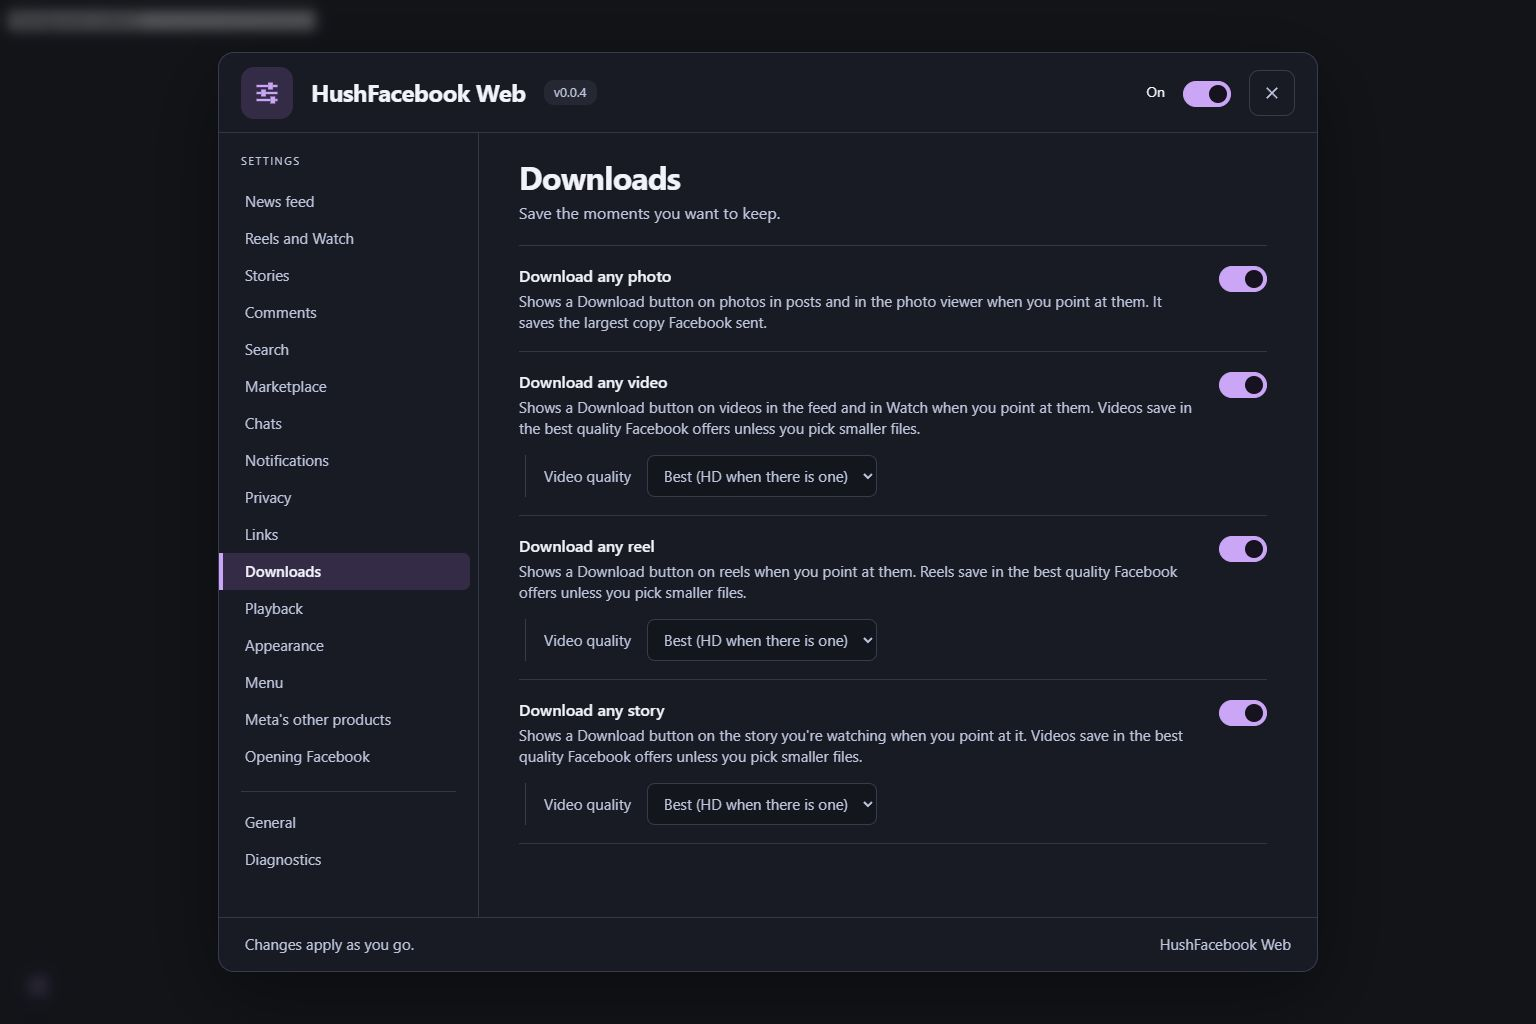
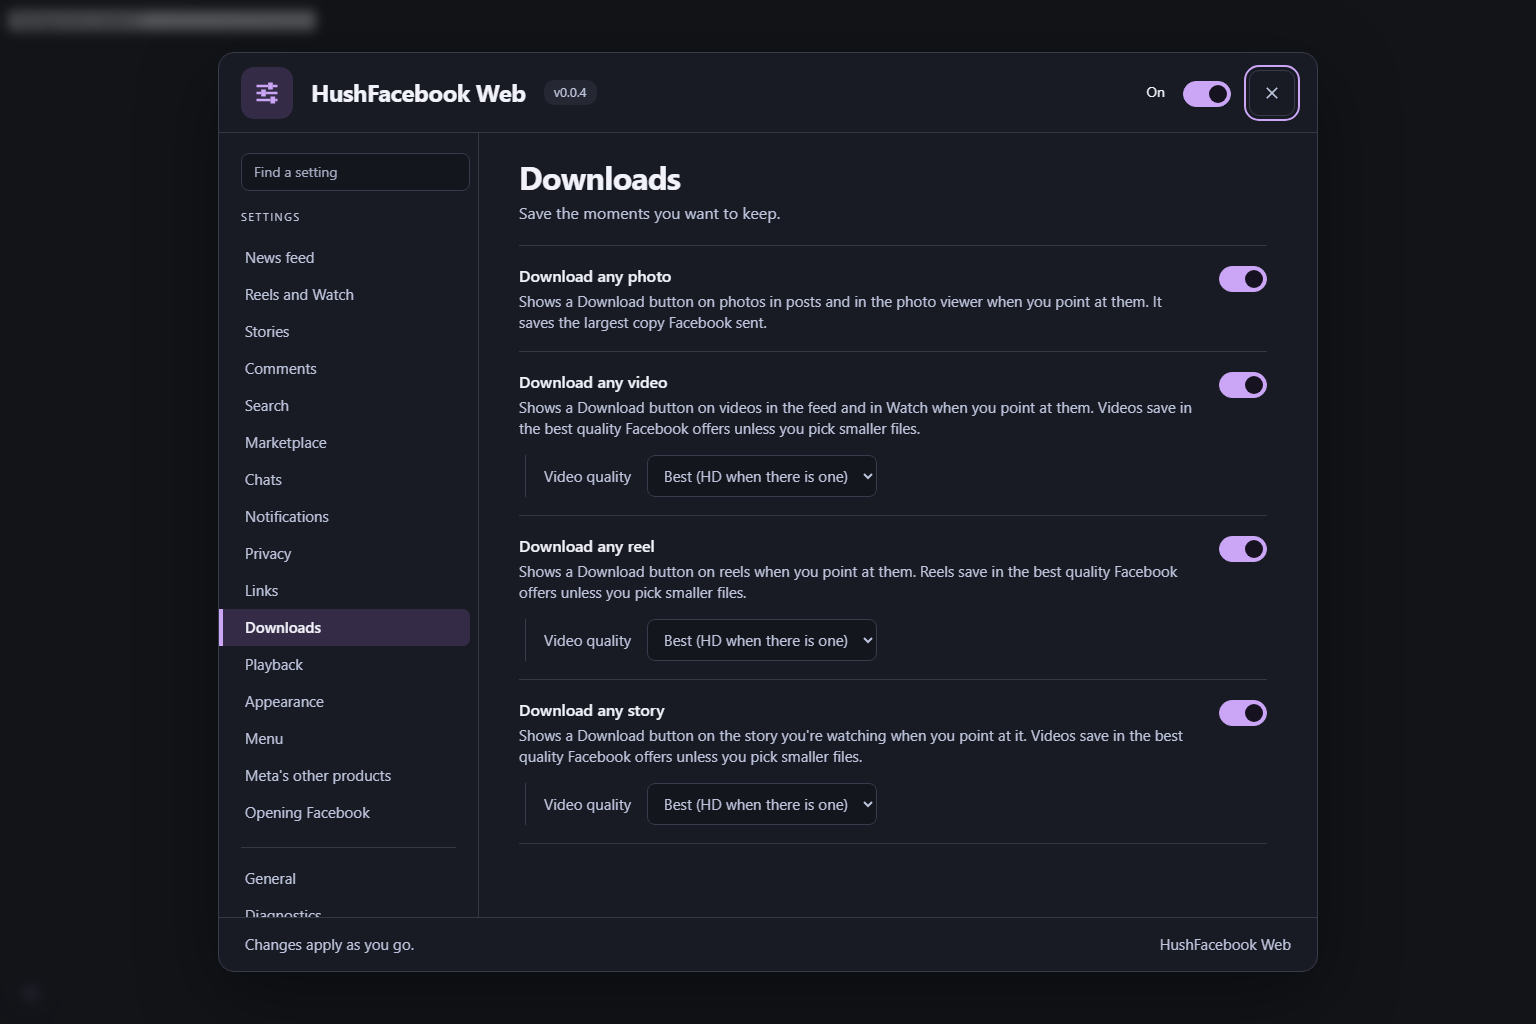
feat(ui): find a setting by its words
A search box above the sections lists every feature whose title, description, section, option labels or choice names hold all the words typed, with working switches and a link that opens the feature's section at its switch. Picking a section clears the search. Screenshots retaken from the review fixture.

Changed region(s): [[0.125, 0.1562, 0.3125, 0.875]]

diff --git a/src/ui/panel.js b/src/ui/panel.js
@@ -7,6 +7,7 @@ import { MAX_BACKUP_BYTES } from '../core/settings.js';
 import { SECTIONS } from '../features/sections.js';
 import { h, icon } from './h.js';
 import { SLIDERS_ICON } from './icons.js';
+import { findFeatures } from './search.js';
 import { panelCss } from './styles.js';
 
 const CLOSE_ICON = ['M6.4 5 12 10.6 17.6 5 19 6.4 13.4 12 19 17.6 17.6 19 12 13.4 6.4 19 5 17.6 10.6 12 5 6.4z'];
@@ -46,6 +47,7 @@ export function mountPanel({ settings, features, log, hider, diagnostics, action
     { id: 'diagnostics', title: 'Diagnostics' },
   ];
   let current = sections[0].id;
+  let query = '';
   let opener = null;
   const drafts = new Map();
   const fieldErrors = new Map();
@@ -60,6 +62,12 @@ export function mountPanel({ settings, features, log, hider, diagnostics, action
   );
   const nav = h('nav', { 'aria-label': 'Settings sections' });
   const main = h('main', { 'aria-labelledby': 'hfw-section-title' });
+  // One element for the life of the panel, so typing keeps its place across redraws.
+  const search = h('input', {
+    class: 'search', type: 'search', placeholder: 'Find a setting', 'aria-label': 'Find a setting',
+    autocomplete: 'off', spellcheck: 'false', dataset: { key: 'search' },
+    oninput: (event) => { query = event.target.value; main.scrollTop = 0; render(); },
+  });
   const pauseState = h('span', { class: 'power-state' });
   // Checked means running, so the switch agrees with the "On" chip beside it.
   const power = h('input', {
@@ -218,6 +226,32 @@ export function mountPanel({ settings, features, log, hider, diagnostics, action
     return features.filter((feature) => feature.section === section.id).map(featureCard);
   }
 
+  function clearSearch() {
+    query = '';
+    search.value = '';
+  }
+
+  // A search result's section link: opens the section with that feature's switch focused.
+  function showFeature(feature) {
+    clearSearch();
+    current = feature.section;
+    main.scrollTop = 0;
+    render();
+    const control = main.querySelector(`[data-key="${CSS.escape(feature.id)}"]`);
+    control?.scrollIntoView?.({ block: 'center' });
+    control?.focus({ preventScroll: true });
+  }
+
+  function resultsView(found) {
+    if (!found.length) return [h('p', { class: 'empty', text: `No setting matches "${query.trim()}". Try a shorter word, or pick a section.` })];
+    return found.map((feature) => {
+      const section = sections.find((entry) => entry.id === feature.section);
+      return h('div', { class: 'result' },
+        h('button', { class: 'result-section', type: 'button', text: `In ${section.title}`, dataset: { key: `show:${feature.id}` }, onclick: () => showFeature(feature) }),
+        featureCard(feature));
+    });
+  }
+
   function generalView() {
     return [
       h('div', { class: 'card' },
@@ -283,20 +317,30 @@ export function mountPanel({ settings, features, log, hider, diagnostics, action
     const selection = typeof focused?.selectionStart === 'number' ? [focused.selectionStart, focused.selectionEnd] : null;
     const scrollTop = main.scrollTop;
     const navScroll = [nav.scrollLeft, nav.scrollTop];
-    nav.replaceChildren(h('div', { class: 'nav-label', text: 'Settings' }), ...sections.flatMap((section) => [
+    const searching = query.trim() !== '';
+    nav.replaceChildren(search, h('div', { class: 'nav-label', text: 'Settings' }), ...sections.flatMap((section) => [
       section.divider ? h('hr') : null,
       h('button', {
         type: 'button', text: section.title, dataset: { key: `nav:${section.id}` },
-        'aria-current': section.id === current ? 'page' : null,
-        onclick: () => { current = section.id; main.scrollTop = 0; render(); },
+        'aria-current': !searching && section.id === current ? 'page' : null,
+        onclick: () => { clearSearch(); current = section.id; main.scrollTop = 0; render(); },
       }),
     ]).filter(Boolean));
-    const section = sections.find((entry) => entry.id === current);
-    main.replaceChildren(
-      h('div', { class: 'page-heading' },
-        h('h3', { id: 'hfw-section-title', text: section.title }),
-        h('p', { text: SECTION_DESCRIPTIONS[current] ?? '' })),
-      ...(current === 'general' ? generalView() : current === 'diagnostics' ? diagnosticsView() : sectionView(section)));
+    if (searching) {
+      const found = findFeatures(features, sections, query);
+      main.replaceChildren(
+        h('div', { class: 'page-heading' },
+          h('h3', { id: 'hfw-section-title', text: 'Search' }),
+          h('p', { text: found.length === 1 ? '1 setting matches.' : `${found.length} settings match.` })),
+        ...resultsView(found));
+    } else {
+      const section = sections.find((entry) => entry.id === current);
+      main.replaceChildren(
+        h('div', { class: 'page-heading' },
+          h('h3', { id: 'hfw-section-title', text: section.title }),
+          h('p', { text: SECTION_DESCRIPTIONS[current] ?? '' })),
+        ...(current === 'general' ? generalView() : current === 'diagnostics' ? diagnosticsView() : sectionView(section)));
+    }
     main.scrollTop = scrollTop;
     nav.scrollLeft = navScroll[0];
     nav.scrollTop = navScroll[1];
@@ -397,7 +441,8 @@ export function mountPanel({ settings, features, log, hider, diagnostics, action
 
   function open(sectionId) {
     if (sectionId && sections.some((section) => section.id === sectionId)) {
-      if (sectionId !== current) main.scrollTop = 0;
+      if (sectionId !== current || query) main.scrollTop = 0;
+      clearSearch();
       current = sectionId;
     }
     if (!dialog.open) opener = shadow.activeElement ?? document.activeElement;

diff --git a/tests/panel.test.js b/tests/panel.test.js
@@ -322,3 +322,34 @@ test('a preference refresh preserves an unfinished draft, caret and scroll posit
   assert.equal(shadow.querySelector('main').scrollTop, 90);
   assert.equal(settings.get('demo.words'), '');
 });
+
+test('search finds settings by their words, opens the section at the switch, and clears back to the sections', () => {
+  const features = [
+    { id: 'quiet', section: 'feed', android: 'Quiet', title: 'Hide sponsored posts', description: 'Ads leave the feed.', default: false },
+    { id: 'speedy', section: 'playback', android: 'Speedy', title: 'Keep your video speed', description: 'The speed you pick stays.', default: false,
+      options: [{ key: 'step', type: 'select', label: 'Speed step', default: 1, choices: [{ value: 1, label: 'Quarter steps' }] }] },
+  ];
+  const { shadow, panel, win } = setup({ features });
+  panel.open('feed');
+  const search = shadow.querySelector('[data-key="search"]');
+  const type = (text) => {
+    search.value = text;
+    search.dispatchEvent(new win.Event('input', { bubbles: true }));
+  };
+  type('quarter');
+  assert.equal(shadow.querySelector('#hfw-section-title').textContent, 'Search');
+  assert.deepEqual([...shadow.querySelectorAll('.result .title')].map((node) => node.textContent), ['Keep your video speed'], 'choice names count');
+  assert.equal(shadow.querySelector('nav [aria-current="page"]'), null, 'no section is current while searching');
+  assert.ok(shadow.querySelector('.result [data-key="speedy"]'), 'the switch works from the results');
+  type('zebra');
+  assert.match(shadow.querySelector('main .empty').textContent, /No setting matches "zebra"/);
+  type('SPEED keep');
+  shadow.querySelector('[data-key="show:speedy"]').click();
+  assert.equal(shadow.querySelector('#hfw-section-title').textContent, 'Playback');
+  assert.equal(shadow.activeElement?.dataset.key, 'speedy', "the feature's switch has focus");
+  assert.equal(search.value, '');
+  type('sponsored');
+  shadow.querySelector('[data-key="nav:general"]').click();
+  assert.equal(shadow.querySelector('#hfw-section-title').textContent, 'General', 'a section button clears the search');
+  assert.equal(search.value, '');
+});

diff --git a/src/ui/styles.js b/src/ui/styles.js
@@ -65,6 +65,18 @@ nav button[aria-current="page"] { background: var(--selected); color: var(--text
 nav button[aria-current="page"]::before { content: ""; position: absolute; inset: 0 auto 0 0; width: 4px; background: var(--accent); }
 nav button:focus-visible { outline-offset: -3px; }
 nav hr { border: 0; border-top: 1px solid var(--border); margin: 16px 14px 12px 22px; }
+.search {
+  display: block; box-sizing: border-box; width: calc(100% - 22px); margin: 0 0 18px 22px; padding: 8px 12px;
+  background: var(--mantle); border: 1px solid var(--surface1); border-radius: 8px; font-size: 14px;
+}
+.search::placeholder { color: var(--subtext); opacity: 0.85; }
+.result { border-top: 1px solid var(--border); }
+.result > .card { border-top: 0; padding-top: 6px; }
+.result-section {
+  display: block; margin: 16px 0 0; padding: 0; border: 0; background: none; cursor: pointer;
+  color: var(--accent); font-size: 12px; font-weight: 600; letter-spacing: 0.6px; text-transform: uppercase;
+}
+.result-section:hover { text-decoration: underline; }
 main { min-width: 0; overflow: auto; overscroll-behavior: contain; padding: 24px 40px 32px; scrollbar-gutter: stable; overflow-wrap: anywhere; }
 .page-heading { margin-bottom: 20px; }
 .page-heading h3 { margin: 0; font-size: 32px; line-height: 40px; font-weight: 700; letter-spacing: -0.7px; }
@@ -147,6 +159,7 @@ nav, main, .log, textarea { scrollbar-width: thin; scrollbar-color: var(--surfac
   .body { grid-template-columns: minmax(0, 1fr); grid-template-rows: auto minmax(0, 1fr); }
   nav { display: flex; align-items: center; gap: 4px; padding: 8px; overflow-x: auto; border-right: 0; border-bottom: 1px solid var(--border); }
   .nav-label { display: none; }
+  .search { flex: none; width: 150px; margin: 0 4px 0 0; padding: 7px 10px; font-size: 13px; }
   nav button { flex: none; white-space: nowrap; width: auto; min-height: 38px; padding: 7px 12px; border-radius: 7px; font-size: 13px; }
   nav button[aria-current="page"]::before { inset: auto 10px 0; width: auto; height: 2px; }
   nav hr { display: none; }

diff --git a/tests/search.test.js b/tests/search.test.js
@@ -1,0 +1,23 @@
+// Finding settings by their words, over the real feature list.
+
+import assert from 'node:assert/strict';
+import { test } from 'node:test';
+import { features } from '../src/features/index.js';
+import { SECTIONS } from '../src/features/sections.js';
+import { findFeatures, searchText } from '../src/ui/search.js';
+
+const ids = (query) => findFeatures(features, SECTIONS, query).map((feature) => feature.id);
+
+test('every word has to appear, in any case and order', () => {
+  assert.ok(ids('volume').includes('keepVolume'));
+  assert.ok(ids('REMEMBER volume').includes('keepVolume'));
+  assert.deepEqual(ids('volume zebra'), []);
+  assert.deepEqual(ids('   '), []);
+});
+
+test('section names, option labels and choice names are searched too', () => {
+  assert.ok(ids('whatsapp').includes('shareSheet'), 'an option label');
+  const playback = ids('playback');
+  assert.ok(playback.includes('keepSpeed') && playback.includes('keepVolume'), 'the section name');
+  assert.ok(searchText({ title: 'Café', description: '', section: 'feed' }, SECTIONS).includes('cafe'), 'accents fold');
+});

diff --git a/src/ui/search.js b/src/ui/search.js
@@ -1,0 +1,20 @@
+// Finding a setting by its words: a feature matches when every word typed appears somewhere in its
+// title, description, section name, option labels or choice names. Only the script's own text is
+// searched, nothing from Facebook.
+
+const fold = (text) => String(text ?? '').toLowerCase().normalize('NFKD').replace(/[̀-ͯ]/g, '').replace(/\s+/g, ' ').trim();
+
+export function searchText(feature, sections) {
+  const section = sections.find((entry) => entry.id === feature.section)?.title ?? '';
+  const options = (feature.options ?? []).flatMap((option) => [option.label, ...(option.choices ?? []).map((choice) => choice.label)]);
+  return fold([feature.title, feature.description, section, ...options].join(' '));
+}
+
+export function findFeatures(features, sections, query) {
+  const words = fold(query).split(' ').filter(Boolean);
+  if (!words.length) return [];
+  return features.filter((feature) => {
+    const text = searchText(feature, sections);
+    return words.every((word) => text.includes(word));
+  });
+}

diff --git a/README.md b/README.md
@@ -92,7 +92,7 @@ The script has been checked on facebook.com in Chrome with Tampermonkey and Viol
 
 Click the sliders button in the bottom left corner of Facebook, or the HushFacebook Web row in the menu under your profile picture at the top right. Your userscript manager's menu has a HushFacebook Web settings entry too. Changes save as you make them, and every switch has a line under it saying what it does. If you'd rather not have the corner button, turn it off under Menu or General.
 
-The panel has 18 sections in a dark layout with a lavender accent. Narrow windows get a scrolling section bar, and long labels and options wrap to fit. The power switch pauses the script. General has backup and restore, and Reset offers Undo in a notification. Closing settings returns focus to the control that opened them.
+The panel has 18 sections in a dark layout with a lavender accent. Find a setting, above the sections, looks through every switch's name, description and options as you type, and each result's section link opens that section with the switch in view. Narrow windows get a scrolling section bar, and long labels and options wrap to fit. The power switch pauses the script. General has backup and restore, and Reset offers Undo in a notification. Closing settings returns focus to the control that opened them.
 
 Backups restore your saved choices, including defaults. Restore accepts HushFacebook Web format 1 files up to 1 MB. Older plain settings files apply only the choices they contain. If a save fails, the previous choices stay in use and you can retry.
 
@@ -101,7 +101,7 @@ Backups restore your saved choices, including defaults. Restore accepts HushFace
   <img src="assets/screenshots/panel-downloads.png" width="49%" alt="The redesigned Downloads settings for photos, videos, reels and stories">
 </p>
 
-These screenshots show the current development build in a browser preview. All 18 sections were checked at desktop size and at 320, 360 and 640 pixels wide. This design hasn't been rechecked on signed-in Facebook or in Firefox yet.
+These screenshots show the current development build in a browser preview. All 18 sections were checked at desktop size and at 320, 360 and 640 pixels wide. On signed-in Facebook in Chrome the panel, search and section links were checked at desktop size and 400 pixels wide. Firefox hasn't been checked yet.
 
 ## How it works
 

diff --git a/CHANGELOG.md b/CHANGELOG.md
@@ -2,6 +2,7 @@
 
 ## Unreleased
 
+* Settings can be searched. Find a setting, above the section list, shows every switch whose name, description or options hold the words you type, and the switches work right there. Each result says which section it's in, and that link opens the section with the switch in view. Choosing a section clears the search. Tried live on Facebook at desktop size and 400 pixels wide. The README screenshots now show the search box.
 * Typing in the settings panel no longer sets off Facebook's keyboard shortcuts. Facebook's single-letter shortcuts (like with l, comment with c, share with s, start a post with p) were picking up keys typed in the panel's text boxes, so a word typed into a filter could act on a post behind the panel. Tried live: "speed" typed into the panel used to come out "seed" because Facebook took the p, and now it types as written. Escape and Tab work as before.
 * New Expand long posts switch, under News feed, off by default. Long posts and comments open in full as you scroll to them, so you don't have to click "See more" on each one. It finds the button by where it sits after the cut-off text, so it works in any language. Tried live: three long posts on Home opened in place as they came near, and the page stayed put.
 * New Hide Follow and Join buttons switch, under News feed, off by default. Posts from people, pages and groups you don't follow lose the "· Follow" or "· Join" after the name, so the header just says who wrote it. It goes by the button's label holding a name the post shows, so it works in any language. Tried live: three posts on Home had a Follow button and all three read as just the name.
